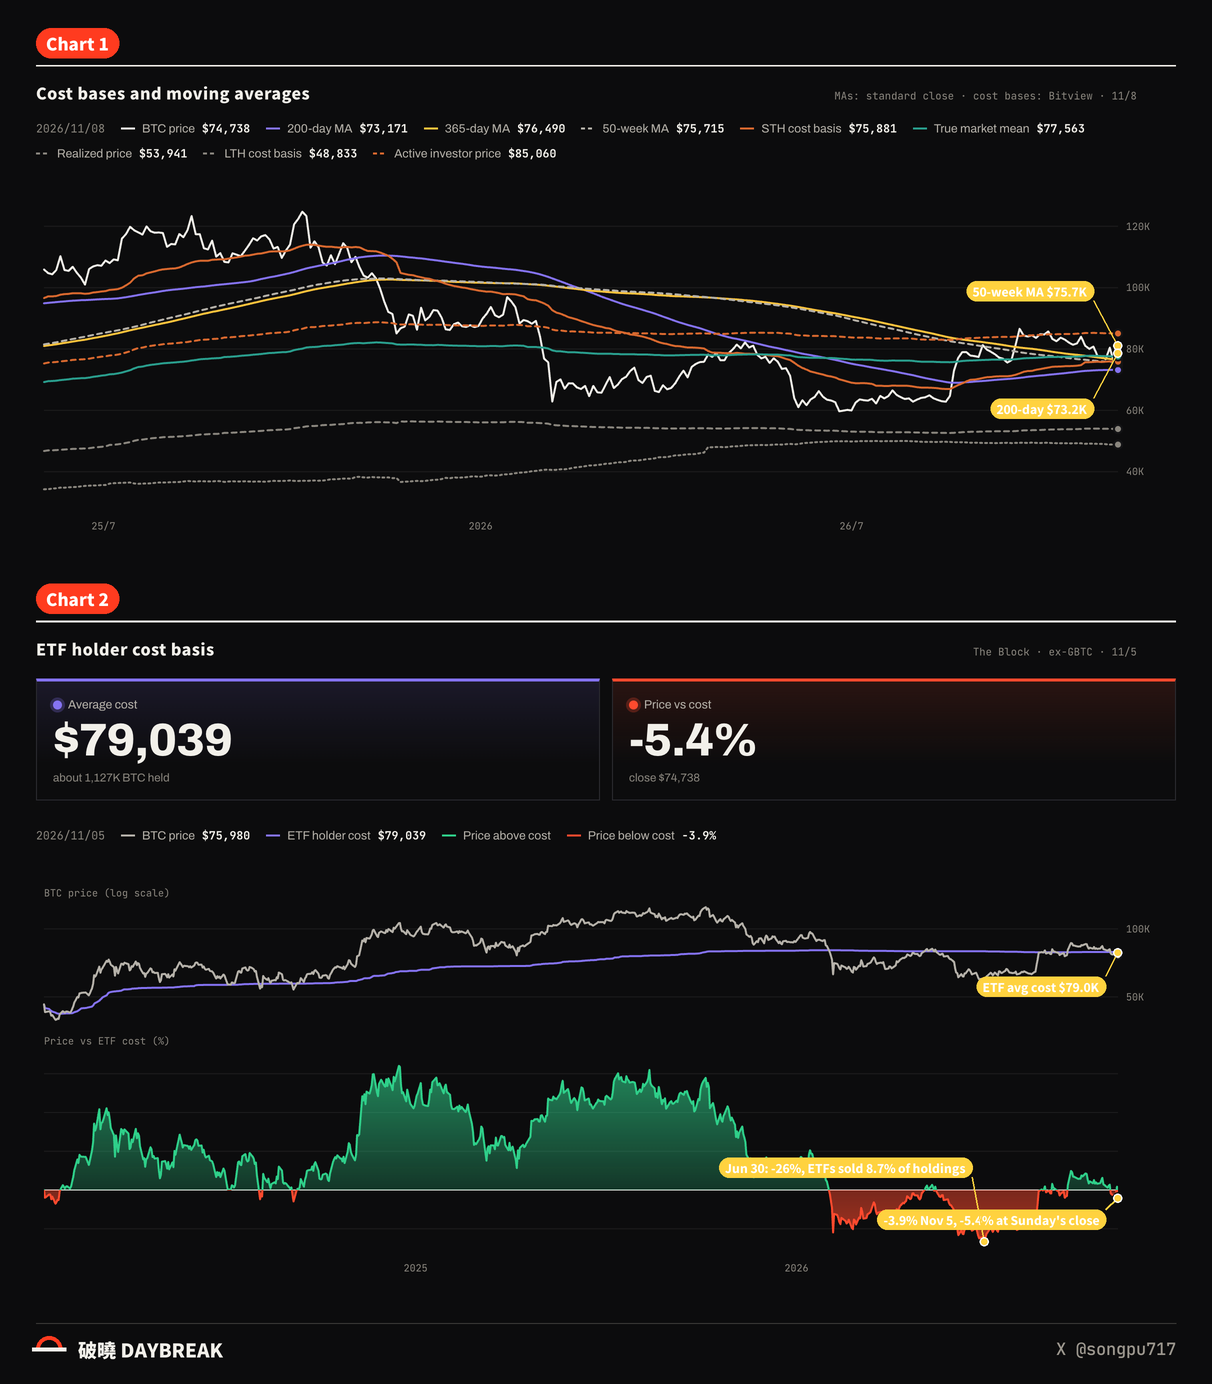
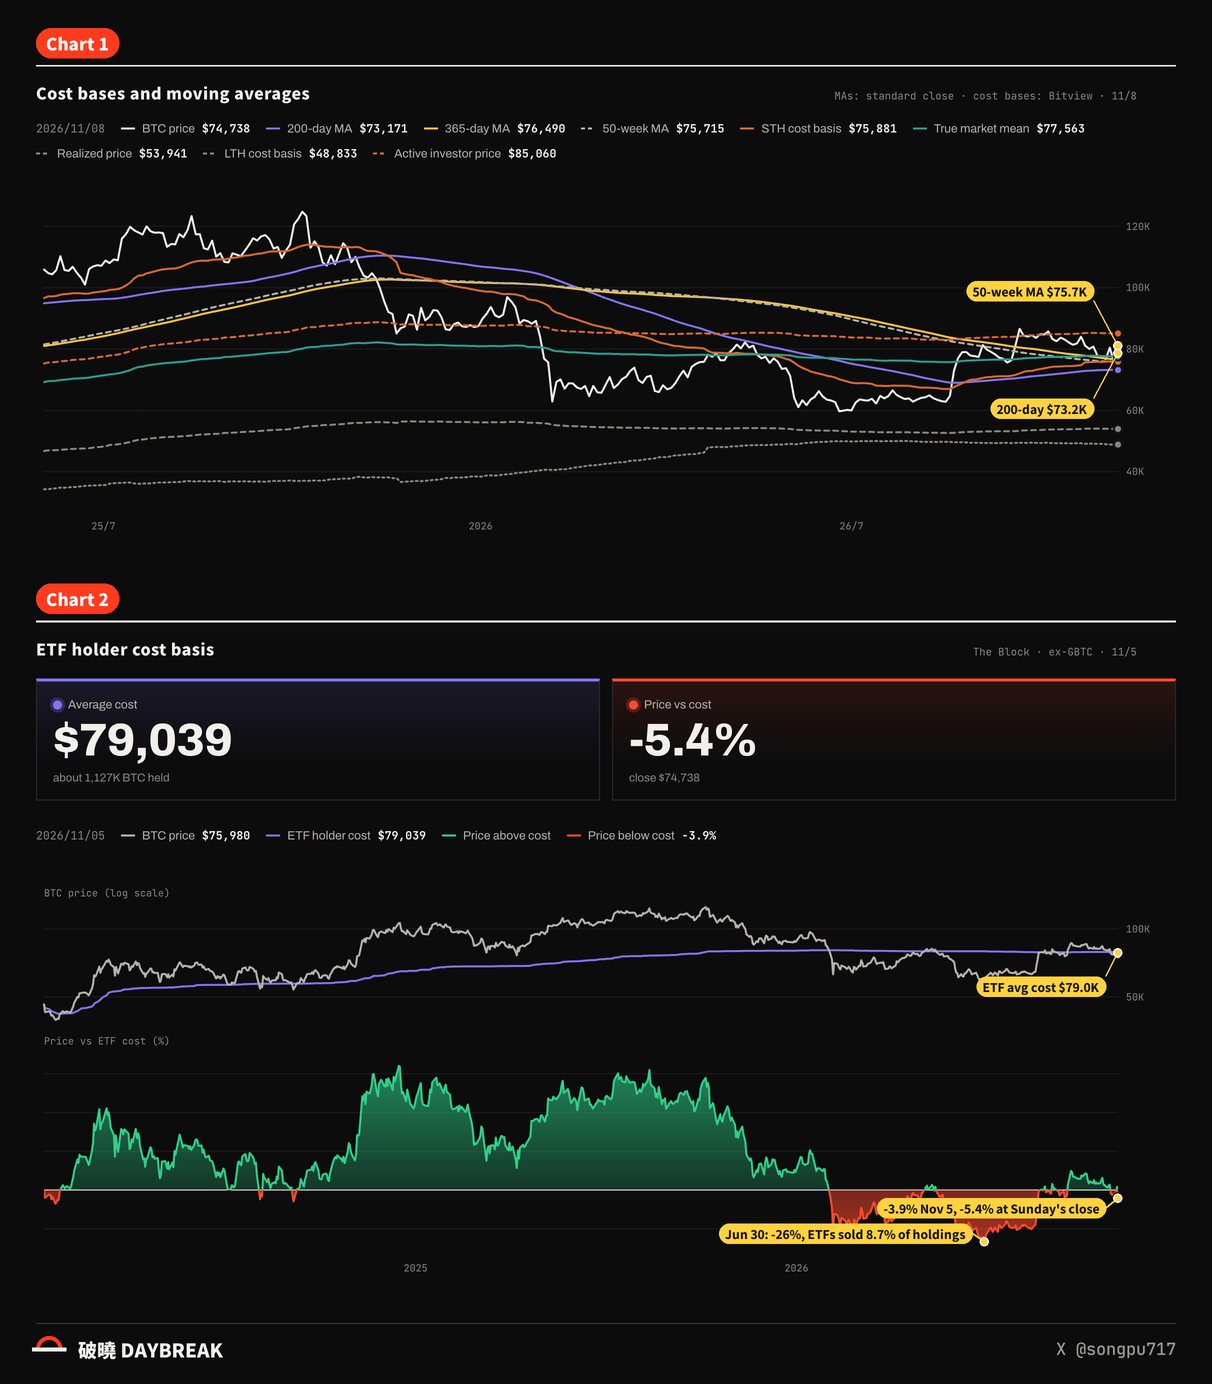
annotate: 淺色膠囊改用深色字（黃底白字看不清楚）；重做 2026-11-09-w50-en 配圖，ETF 圖兩個標籤錯開

Changed region(s): [[0.58, 0.8389, 0.9158, 0.901], [0.8243, 0.2796, 0.8853, 0.3107], [0.8243, 0.1864, 0.8853, 0.2175]]

diff --git a/ops/post/annotate.py b/ops/post/annotate.py
@@ -10,7 +10,7 @@ spec: {"<raw name>": {"axes": {"<axis>": {"kind": "lin"|"log", "unit": "%"|"", "
 """
 import datetime as dt, json, math, os, re, sys
 sys.path.insert(0, os.path.join(os.path.dirname(os.path.dirname(os.path.dirname(os.path.abspath(__file__)))), 'pipeline'))
-from PIL import Image, ImageDraw
+from PIL import Image, ImageDraw, ImageColor
 import share_card as SC
 
 spec, rawdir, outdir, fonts = sys.argv[1:5]
@@ -69,7 +69,9 @@ for name, s in json.load(open(spec, encoding='utf-8')).items():
         cx = min(max(x, bx0), bx0 + pw); cy = by0 + ph if y > by0 + ph else by0 if y < by0 else ly
         if abs(cy - y) > 4 or abs(cx - x) > 4: d.line([cx, cy, x, y], fill=col, width=3)
         d.rounded_rectangle([bx0, by0, bx0 + pw, by0 + ph], radius=ph / 2, fill=col)
-        d.text((bx0 + pw / 2, ly), m['label'], font=lf, fill='#FFFFFF', anchor='mm')
+        # 2026-11-09 使用者：黃底白字看不清楚 → 淺色底自動用深色字（相對亮度 > 0.4 算淺）
+        rgb = ImageColor.getrgb(col); lum = (0.2126 * rgb[0] + 0.7152 * rgb[1] + 0.0722 * rgb[2]) / 255
+        d.text((bx0 + pw / 2, ly), m['label'], font=lf, fill='#141414' if lum > 0.4 else '#FFFFFF', anchor='mm')
         if m.get('dot', True):
             r = 9; d.ellipse([x - r, y - r, x + r, y + r], fill=col, outline='#FFFFFF', width=3)
     im.save(os.path.join(outdir, name + '.png')); print('annotated', name, len(s['marks']))
